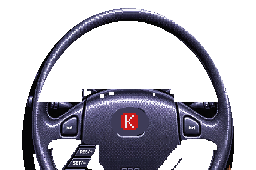
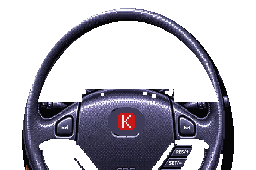
NX mão inglesa como a arte; adversário ultrapassa sem esperar o jogador na mão dupla; lua não clareia caminhões; câmera antecipa menos a descida (v0.16.1)
Claude-Session: https://claude.ai/code/session_01MLD9VR7gkmY4w6a9beZcp6

Changed region(s): [[0.0625, 0.0294, 0.9375, 1.0], [0.4375, 0.9706, 0.5625, 1.0]]

diff --git a/src/race.ts b/src/race.ts
@@ -526,22 +526,23 @@ export class Race {
     // acompanhando a pista (antes mirava o céu até o carro chegar na rampa)
     // a câmera mira o chão uns 25 segmentos à frente (a inclinação média até lá, com mais peso
     // no trecho mais perto): ao chegar numa crista ela já aponta para a descida, e não para o céu
-    // pesos maiores mais adiante: numa crista a câmera já mira a descida que vem depois dela
+    // olha só um pouco adiante (uns 12 segmentos, mais peso perto): a câmera começa a baixar
+    // quando a crista já está chegando, e não muito antes dela
     let ahead = 0, wsum = 0, far = 0;
-    for (let k = 2; k <= 25; k++) {
+    for (let k = 1; k <= 12; k++) {
       const sg = this.findSegment(this.position + k * SEG_LEN);
       const sk = (sg.p2.world.y - sg.p1.world.y) / SEG_LEN;
-      const wk = 0.5 + k / 25;
+      const wk = 1.3 - k / 12;
       ahead += sk * wk;
       wsum += wk;
-      if (k >= 8 && k <= 22) far += sk / 15;
+      if (k >= 4 && k <= 9) far += sk / 6;
     }
     ahead = clamp(ahead / wsum, -0.8, 0.6);
     // no ar também olha para onde vai pousar (antes seguia o próprio voo e mirava o céu)
     const fly = clamp(this.vy / Math.max(this.speed, 1), -0.6, 0.6);
-    let ground = slope * 0.05 + slopeCam * 0.1 + ahead * 0.85;
-    // descida forte adiante: aponta um pouco além dela, para a pista não sumir embaixo do capô
-    if (far < ground) ground = lerp(ground, clamp(far * 1.15, -0.8, 0), 0.7);
+    let ground = slope * 0.1 + slopeCam * 0.25 + ahead * 0.65;
+    // descida forte logo adiante: aponta um pouco além dela (a pista não some embaixo do capô)
+    if (far < ground) ground = lerp(ground, clamp(far * 1.1, -0.8, 0), 0.5);
     const pitchTo = this.airborne ? fly * 0.3 + ground * 0.7 : ground;
     this.pitch = lerp(this.pitch, pitchTo, Math.min(1, dt * (this.airborne ? 5 : 7)));
     // ---- salto: o carro é um corpo com velocidade vertical própria. Segue o chão enquanto a
@@ -1031,6 +1032,38 @@ export class Race {
   }
 
   // tempo até alcançar o próximo obstáculo numa faixa
+  // mão dupla: dá para ultrapassar quem vai devagar na frente? Compara o tempo para passar o
+  // carro lento (mais os que vão colados a ele) e voltar para a mão com o tempo até cruzar o
+  // primeiro carro que vem de frente na contramão (olhando bem longe, ~800 m). need: há alguém
+  // lento na frente; ok: a manobra cabe com a folga do estilo do piloto
+  private twoWayPass(want: number): { need: boolean; ok: boolean; meet: number } {
+    const r = this.rival!;
+    const home = laneCenter(this.track, 1), left = laneCenter(this.track, 0);
+    const v = Math.max(r.speed, Math.min(want, this.rivalCar!.maxSpeed));
+    type Obj = { z: number; x: number; speed: number; len: number };
+    const objs: Obj[] = this.traffic.filter((c) => !c.hit).map((c) => ({ z: c.z, x: c.x, speed: c.speed, len: (c.truck ? 3 : 1.6) * SEG_LEN }));
+    if (this.state === 'drive') objs.push({ z: this.playerZ, x: this.x, speed: this.speed, len: 1.6 * SEG_LEN });
+    // lentos na faixa dele, à frente: o primeiro e os que vêm colados (passa todos de uma vez)
+    const slow = objs.filter((o) => o.z > r.z && o.z - r.z < 40 * SEG_LEN && Math.abs(o.x - home) < CAR_W * 1.1 && o.speed < want - 250).sort((a, b) => a.z - b.z);
+    if (!slow.length) return { need: false, ok: false, meet: Infinity };
+    let end = slow[0];
+    for (const o of objs) {
+      if (Math.abs(o.x - home) < CAR_W * 1.1 && o.z > end.z && o.z - end.z < 5 * SEG_LEN) end = o;
+    }
+    const vr = v - Math.max(0, end.speed);
+    if (vr < 300) return { need: true, ok: false, meet: 0 };
+    const tPass = (end.z - r.z + end.len + 2.5 * SEG_LEN) / vr;
+    // quem vem de frente (ou vai mais devagar) na contramão
+    let meet = Infinity;
+    for (const o of objs) {
+      if (Math.abs(o.x - left) > CAR_W * 1.2 || o.z <= r.z || o.z - r.z > 600 * SEG_LEN) continue;
+      const closing = o.speed < 0 ? v - o.speed : v - o.speed;
+      if (closing > 0) meet = Math.min(meet, (o.z - r.z) / closing);
+    }
+    const k = r.style === 'agressivo' ? 1.1 : r.style === 'cauteloso' ? 1.5 : 1.25;
+    return { need: true, ok: meet > tPass * k + 0.6, meet };
+  }
+
   private laneTTC(laneX: number, v = this.rival!.speed) {
     const r = this.rival!;
     let best = Infinity;
@@ -1071,6 +1104,7 @@ export class Race {
     const sharp = Math.abs(rSeg.curve) >= 3;
     const gap = (r.z - this.playerZ) / SEG_LEN; // > 0: rival na frente
     let target = 0;
+    let cornerCap = Infinity;
     if (r.finishTime >= 0 || this.state === 'arrived') target = max * 0.25;
     else {
       // elástico: na frente, o rival alivia (os mais fracos aliviam mais, dando chance de
@@ -1111,10 +1145,14 @@ export class Race {
         if (cv < 0.5) continue;
         const vc = this.cornerSpeed(cv, this.rivalCar, nerve) * (0.9 + 0.1 * skill);
         const dist = Math.max(0, k - into) * SEG_LEN;
-        target = Math.min(target, Math.sqrt(vc * vc + 2 * brakeA * dist));
+        cornerCap = Math.min(cornerCap, Math.sqrt(vc * vc + 2 * brakeA * dist));
       }
+      target = Math.min(target, cornerCap);
     }
     const want = target; // o que ele quer andar (antes de ficar preso atrás de alguém)
+    // ritmo de ultrapassagem: o normal do piloto, sem o elástico. Mesmo aliviando para esperar
+    // o jogador, ele não fica atrás de um caminhão lento: ultrapassa como faria de qualquer jeito
+    const wantPass = r.finishTime < 0 && this.state !== 'arrived' ? Math.min(cornerCap, Math.max(want, max * this.course.rivalSkill * 0.92)) : want;
     r.mistake = Math.max(0, r.mistake - dt);
     r.boost = Math.max(0, r.boost - dt);
     r.wasAhead = gap > 0;
@@ -1125,13 +1163,14 @@ export class Race {
       const lanes = this.track.lanes;
       // o cauteloso troca de faixa mais cedo (precisa de mais folga à frente)
       const margin = r.style === 'cauteloso' ? 0.6 : r.style === 'agressivo' ? 0.2 : 0.4;
+      const pass2 = lanes === 2 ? this.twoWayPass(wantPass) : { need: false, ok: false, meet: Infinity };
       // nota de cada faixa: tempo livre à frente, com ajustes de estratégia
       const laneScore = (lx: number, i: number) => {
         // com a velocidade que ele quer (atrás de alguém mais lento, a faixa dele "fecha")
-        let score = this.laneTTC(lx, Math.max(r.speed, want)) * (i < lanes / 2 ? 0.85 : 1);
-        // mão dupla: só sai para a contramão com pista livre de verdade (tempo para ultrapassar
-        // e voltar antes de quem vem de frente)
-        if (lanes === 2 && lx < 0 && Math.abs(r.x - lx) > LANE_W / 2 && score < 4.5) score = -1;
+        let score = this.laneTTC(lx, Math.max(r.speed, wantPass)) * (i < lanes / 2 ? 0.85 : 1);
+        // mão dupla: só sai para a contramão se a ultrapassagem cabe antes de quem vem de frente
+        // (e aí sai sem esperar ninguém abrir caminho)
+        if (lanes === 2 && lx < 0 && Math.abs(r.x - lx) > LANE_W / 2) score = pass2.need && pass2.ok ? 10 : -1;
         const playerLane = Math.abs(this.x - lx) < LANE_W / 2;
         // o agressivo fecha a faixa do jogador quando ele vem colado atrás
         if (r.style === 'agressivo' && gap > 0.5 && gap < 7 && playerLane) score += 1.5;
@@ -1158,24 +1197,30 @@ export class Race {
         r.sigT = SIGNAL_LEAD;
         r.signal = Math.sign(bestX - r.x);
       } else if (r.pendX === undefined) r.targetX = bestX;
-      if (bestScore < 1) target = Math.min(target, max * 0.35);
+      // faixa toda fechada: alivia (na mão dupla quem cuida disso é o seguir o carro da frente,
+      // a uma distância de onde dá para sair e ultrapassar assim que abrir)
+      if (bestScore < 1 && lanes !== 2) target = Math.min(target, max * 0.35);
     }
     // na contramão com alguém vindo de frente perto: volta já para a própria faixa (sem esperar
     // o pisca) e alivia; se a faixa dele estiver ocupada ao lado, freia forte para se encaixar
     if (this.track.lanes === 2 && r.x < 0 && r.finishTime < 0) {
       const home = laneCenter(this.track, 1);
-      if (this.laneTTC(r.x) < 2.6) {
+      const onc = this.twoWayPass(wantPass);
+      // aborta só se quem vem de frente chega antes de ele terminar (olhando longe, com folga)
+      if (this.laneTTC(r.x) < 1.2 || (onc.need && !onc.ok && onc.meet < 2.2)) {
         r.pendX = undefined;
         r.targetX = home;
         r.signal = 1;
         if (this.laneTTC(home) < 0.8) target = Math.min(target, r.speed * 0.6);
-      } else if (r.pendX === undefined && r.targetX < 0 && this.laneTTC(home, Math.max(r.speed, want)) > 4) {
+      } else if (r.pendX === undefined && r.targetX < 0 && this.laneTTC(home, Math.max(r.speed, wantPass)) > 4) {
         // ultrapassagem feita (ou nada à frente na faixa dele): volta para a mão, com o pisca
         r.pendX = home;
         r.sigT = SIGNAL_LEAD;
         r.signal = 1;
       }
     }
+    // ultrapassando na contramão: mantém o ritmo de ultrapassagem até voltar (sem o elástico)
+    if (this.track.lanes === 2 && r.x < 0 && r.targetX < 0) target = Math.max(target, wantPass);
     if (r.pendX !== undefined) {
       r.sigT -= dt;
       if (r.sigT <= 0 || r.mistake > 0) {

diff --git a/src/nightlight.ts b/src/nightlight.ts
@@ -401,7 +401,8 @@ function silhouette(l: Light, W: number, H: number, ox: number, oy: number): Sil
   const hit = sils.get(l);
   if (hit !== undefined) return hit;
   const x0 = Math.max(0, Math.floor(l.x - l.w * 0.75 - ox)), x1 = Math.min(W, Math.ceil(l.x + l.w * 0.75 - ox));
-  const y0 = Math.max(0, Math.floor(l.y - l.w * 1.2 - oy)), y1 = Math.min(H, Math.ceil(l.y + l.w * 0.2 + 2 - oy), Math.ceil(Math.max(l.clip + 1, l.clip >= l.y - 1 ? l.y + l.w * 0.2 + 2 : 0) - oy));
+  // 1,8 larguras de altura: o baú do caminhão é bem mais alto que um carro
+  const y0 = Math.max(0, Math.floor(l.y - l.w * 1.8 - oy)), y1 = Math.min(H, Math.ceil(l.y + l.w * 0.2 + 2 - oy), Math.ceil(Math.max(l.clip + 1, l.clip >= l.y - 1 ? l.y + l.w * 0.2 + 2 : 0) - oy));
   if (!l.shape || x1 <= x0 || y1 <= y0) {
     sils.set(l, null);
     return null;
@@ -592,8 +593,7 @@ export function finishNight(c: CanvasRenderingContext2D, vp: { x: number; y: num
   if (sec) g.drawImage(sec, 0, 0);
   // cada carro com uma luz só no corpo inteiro (o facho ou a luz do poste não cortam a
   // carroceria ao meio): conforme a distância no nosso farol e a proximidade de um poste
-  const litOf = carLighting(rd, cx, seen - top, top, vp.x);
-  shadeCars(g, W, H, vp.x, top, (l) => `rgba(0,0,10,${(0.8 * strength * (1 - 0.68 * litOf(l))).toFixed(3)})`, true);
+  // clarão da lua no céu: antes dos carros (um carro na frente da lua tapa o clarão)
   if (sky) {
     const sx = sky.x - vp.x, sy = sky.y - top;
     const sg = g.createRadialGradient(sx, sy, 0, sx, sy, sky.r);
@@ -628,6 +628,8 @@ export function finishNight(c: CanvasRenderingContext2D, vp: { x: number; y: num
     g.restore();
     sky = null;
   }
+  const litOf = carLighting(rd, cx, seen - top, top, vp.x);
+  shadeCars(g, W, H, vp.x, top, (l) => `rgba(0,0,10,${(0.8 * strength * (1 - 0.68 * litOf(l))).toFixed(3)})`, true);
   g.globalCompositeOperation = 'source-over';
   const prev = c.imageSmoothingEnabled;
   c.imageSmoothingEnabled = false;
@@ -652,7 +654,10 @@ export function finishNight(c: CanvasRenderingContext2D, vp: { x: number; y: num
     for (const st of streets) maskedPool(s, W, H, vp.x, top, rd, st, 0.2 * strength);
   }, (t, b) => drawCarBeamsWarm(t, vp.x, top, 0.935 * strength, [b]));
   if (secW) wg.drawImage(secW, 0, 0);
-  shadeCars(wg, W, H, vp.x, top, (l) => `rgba(255,226,160,${(0.1 * litOf(l)).toFixed(3)})`, false);
+  // apaga o facho e a luz do poste pintados no chão por baixo de cada carro (no baú alto do
+  // caminhão eles apareciam em degraus) e dá ao carro inteiro uma luz só
+  shadeCars(wg, W, H, vp.x, top, (l) => `rgba(255,226,160,${(0.1 * litOf(l)).toFixed(3)})`, true);
+  wg.globalCompositeOperation = 'source-over';
   carBeams.length = 0;
   c.save();
   c.globalCompositeOperation = 'lighter';

diff --git a/tools/ref/nsx_cockpit.py b/tools/ref/nsx_cockpit.py
@@ -1,7 +1,6 @@
 """Cabine do Kaze NX (Honda NSX) a partir das duas artes do Victor (com e sem volante).
-A arte veio com volante à direita e quase nada desenhado à direita dele: é espelhada (volante à
-esquerda, como nas outras cabines) e os textos voltam a ficar legíveis (rádio, botões e SRS do
-volante, desvirados no lugar). O para-brisa (paisagem acima da borda do painel) vira vidro.
+Mão inglesa, como o NSX japonês da arte: volante à direita (no centro da tela, na frente do
+piloto), console e rádio à esquerda; o nome da marca no rádio sai. O para-brisa (paisagem acima da borda do painel) vira vidro.
 O quadro de instrumentos é repintado como o do carro (painel cinza escovado); os seis mostradores
 são desenhados pelo jogo (cockpit.ts): água e pressão do óleo à esquerda, conta-giros, velocímetro,
 combustível e bateria à direita. Escala 0,307 (pixel 8:7).
@@ -18,15 +17,15 @@ from PIL import Image
 S = 0.307
 PXW, PXH = 1 / S, (1 / S) / (8 / 7)
 W0 = 1459
-PIV = (W0 - 1 - 1031.0, 600.0)  # centro do aro (já espelhado)
+PIV = (1031.0, 600.0)  # centro do aro
 PIV_N = (128.0, 140.0)
 ROWS, EXT, PAD = 124, 76, 102
 WROWS = 170
 RIM_OUT, RIM_IN = (345, 376), (311, 340)
 
 
-def mx(x):  # coordenada x da arte original -> espelhada
-    return W0 - 1 - x
+def mx(x):  # coordenada x da arte (sem espelhar)
+    return x
 
 
 def grid(y0, rows, x0n=-PAD, cols=256 + 2 * PAD):
@@ -49,34 +48,33 @@ def unflip(img, x0, y0, x1, y1):
 
 def main():
     d, out = sys.argv[1], sys.argv[2]
-    nw = np.array(Image.open(os.path.join(d, 'cab-nowheel.png')).convert('RGB'))[:, :W0][:, ::-1].copy()
-    ww = np.array(Image.open(os.path.join(d, 'cab-wheel.png')).convert('RGB'))[:, :W0][:, ::-1].copy()
+    nw = np.array(Image.open(os.path.join(d, 'cab-nowheel.png')).convert('RGB'))[:, :W0].copy()
+    ww = np.array(Image.open(os.path.join(d, 'cab-wheel.png')).convert('RGB'))[:, :W0].copy()
     H, W = nw.shape[:2]
-    # textos que ficaram ao contrário: rádio (o nome da marca some) e, no volante, SRS e botões
-    for img in (nw, ww):
-        unflip(img, 360, 495, 640, 700)
-    ww_unflip = [(985, 670, 1062, 705), (1125, 610, 1250, 715)]
-    for r in ww_unflip:
-        unflip(ww, *r)
     # "HONDA" do rádio: faixa escura lisa
     for img in (nw, ww):
-        x0, x1 = mx(560), mx(470)
+        x0, x1 = 470, 560
         img[530:556, x0:x1] = np.median(img[530:556, x0 - 6:x0 - 2].reshape(-1, 3), axis=0).astype(np.uint8)
     # borda de cima do painel: contorno escuro perto da linha medida na arte (quase reta à
     # esquerda, descendo no canto da porta), procurado coluna a coluna numa faixa estreita
     lum = nw.astype(int).mean(axis=2)
-    ox_ = [0, 700, 1050, 1250, W0 - 1]
-    oy_ = [197, 199, 203, 225, 262]
+    ox_ = [0, 700, 1050, 1100, 1250, W0 - 1]
+    oy_ = [197, 197, 205, 214, 235, 268]
     guess = np.interp(mx(np.arange(W)), ox_, oy_)
     top = np.zeros(W, int)
     for x in range(W):
         g = int(guess[x])
-        col = lum[g - 12:g + 12, x]
-        k = np.nonzero(col < 50)[0]
-        top[x] = g - 12 + k[0] if len(k) else g
+        # de baixo para cima: atravessa o painel até o contorno preto e sobe por ele; a primeira
+        # linha acima do contorno já é paisagem
+        y = g + 14
+        while y > g - 16 and lum[y, x] >= 28:
+            y -= 1
+        while y > g - 20 and lum[y - 1, x] < 45:
+            y -= 1
+        top[x] = y if y > g - 16 else g
     top = np.array([int(np.median(top[max(0, x - 4):x + 5])) for x in range(W)])
     yy, xx = np.mgrid[0:H, 0:W]
-    sky = yy < top[None, :] + 2
+    sky = yy < top[None, :]
     # perto da borda, o que for paisagem (verde, azul claro, branco da mureta) também é vidro
     rgbi = nw.astype(int)
     scen = ((rgbi[..., 1] > rgbi[..., 0] + 25) | (rgbi[..., 2] > 150) | (rgbi.min(axis=2) > 170)) & (yy < top[None, :] + 14)
@@ -108,7 +106,7 @@ def main():
     rgb[rim] = (14, 14, 17)
     al[face | rim] = True
     # janelinhas do hodômetro da arte (sob o quadro, com dígitos espelhados): viram painel
-    for x0, x1 in ((64, 86), (198, 222)):
+    for x0, x1 in ((52, 86), (168, 200)):
         for y in range(101, 113):
             rgb[y, PAD + x0:PAD + x1] = rgb[y, PAD + x0 - 3]
     Image.fromarray(np.dstack([rgb, al.astype(np.uint8) * 255]), 'RGBA').save(os.path.join(out, 'nsx-dash.png'))

diff --git a/tools/ref/brand_badges.py b/tools/ref/brand_badges.py
@@ -53,7 +53,7 @@ WHEELS = {
   'diablo': (128, 104, 13, 0), 'br-vectra': (129, 108, 13, 0), 'br-golgti': (128, 148, 13, 0),
   'br-kadett': (128, 104, 11, 0), 'br-uno': (128, 106, 11, 7), 'br-corsa': (127, 112, 13, 8),
   'br-passat': (129, 112, 13, 8), 'br-pumagtb': (128.5, 127, 13, 9), 'br-pumagte': (128.5, 116, 13, 10),
-  'zr1': (128, 90, 13, 0), 'testarossa': (128.5, 86, 11, 3), 'nsx': (129.5, 121.8, 17, 0),
+  'zr1': (128, 90, 13, 0), 'testarossa': (128.5, 86, 11, 3), 'nsx': (126.5, 121.8, 17, 0),
   'viper': (128.5, 86, 11, 3), 'countach': (127.5, 117, 13, 11),
 }
 ZR1_CLEAR = (128, 90, 15, 13)  # elipse do emblema largo do C4
